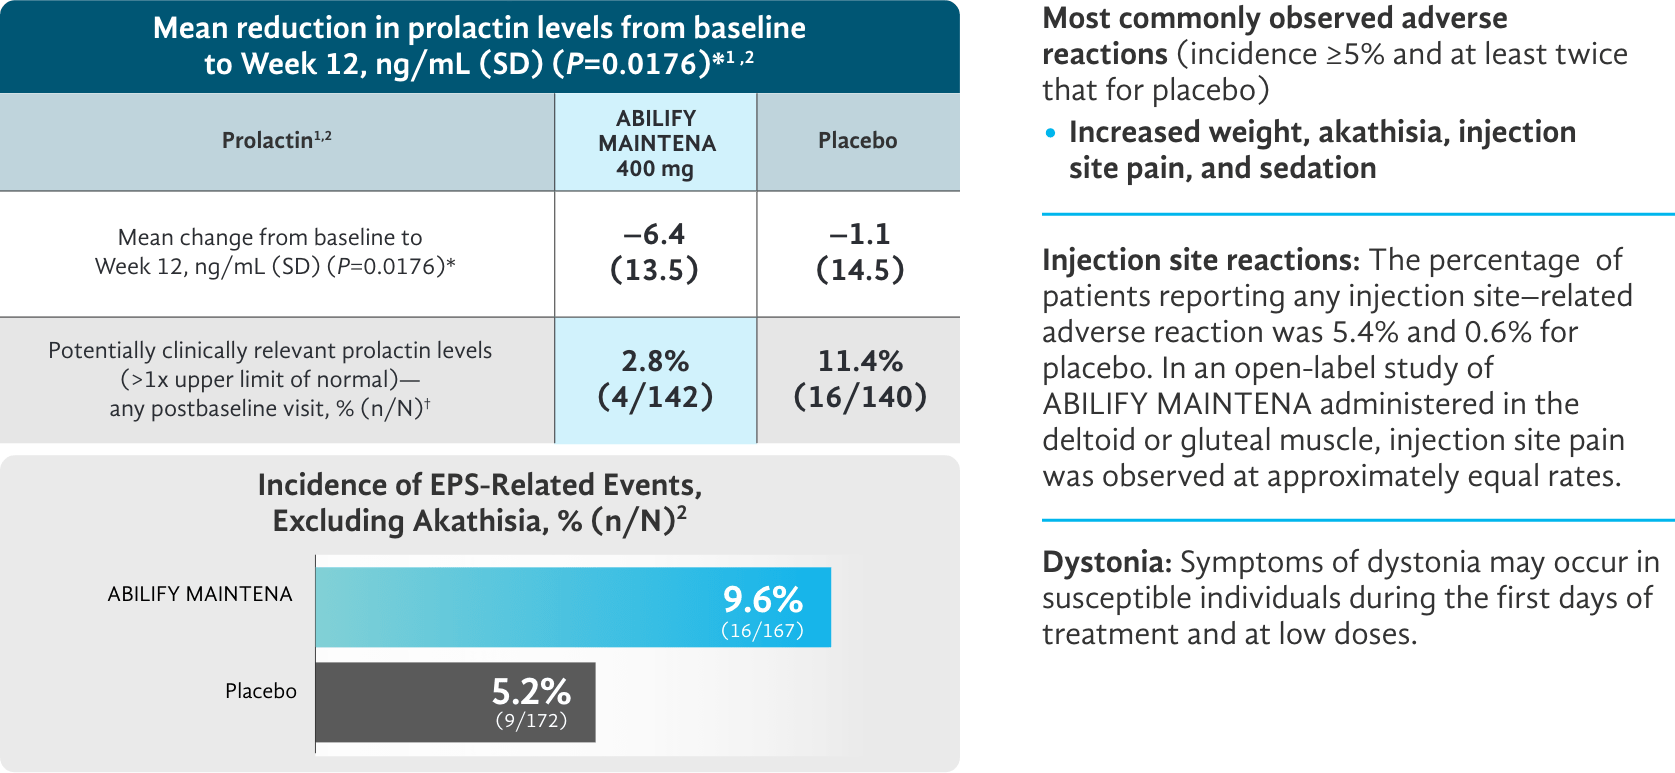
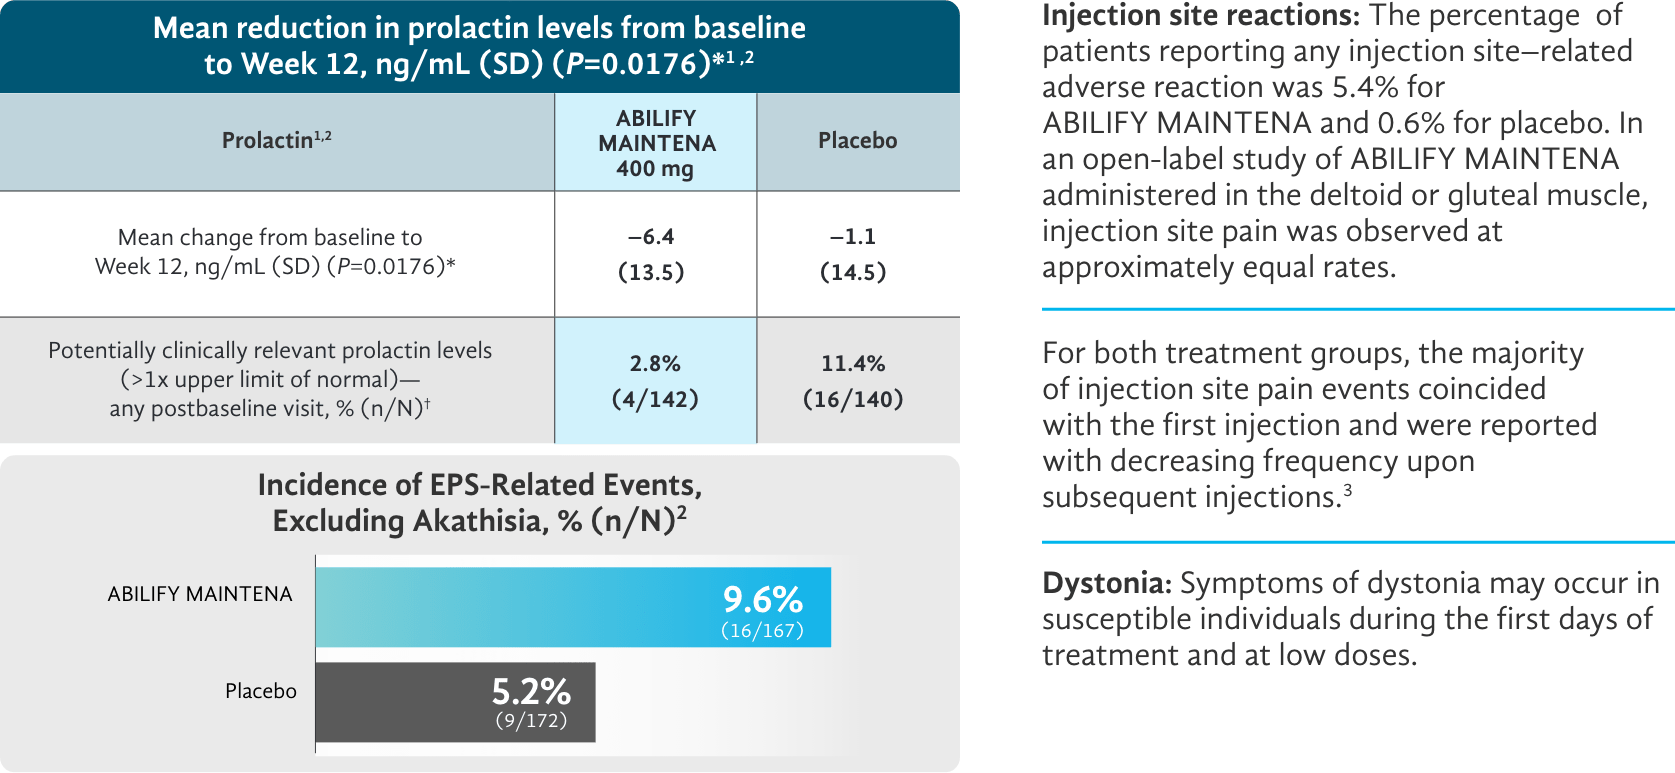
DF-34601 | R1 - A.3.3.2 Clinical Profile > Safety Data 2 update

diff --git a/projects/veeva-clm/src/Components/05-pages/A.3.3.2_Safety/A.3.3.2_Safety.stories.jsx b/projects/veeva-clm/src/Components/05-pages/A.3.3.2_Safety/A.3.3.2_Safety.stories.jsx
@@ -25,57 +25,19 @@ const classNames = require('classnames');
 
 const content = () => (
   <div className={`${blockName}_wrapper`}>
-    <Header custom='mb-0'>
+    <Header custom='mb-25'>
       Prolactin and extrapyramidal symptom-related
       <br />
       events in patients with schizophrenia receiving
       <br />
       ABILIFY MAINTENA<sup>®</sup> (aripiprazole)<sup>1,2</sup>
     </Header>
-    <List
-      content={{
-        columns: 'columns-1',
-        type: 'circle',
-        custom: 'mb-5',
-        data: [
-          {
-            text: (
-              <>
-                Prolactin levels and extrapyramidal symptoms<sup>1</sup>
-              </>
-            ),
-          },
-          {
-            text: (
-              <>
-                Prolactin levels and incidence of an extrapyramidal
-                symptom–related event among patients with schizophrenia
-                receiving ABILIFY MAINTENA vs those taking placebo<sup>1</sup>
-              </>
-            ),
-          },
-        ],
-      }}
-    />
     <img
       src={ProlactinTableImg}
       alt='prolactin table'
       className={classNames(`${blockName}-img`, 'mb-5')}
     />
-    <Link
-      to='A.3.2.2_Efficacy'
-      custom={classNames(
-        `${blockName}-btn`,
-        'button button__type-c',
-        ' button__type-c-large',
-      )}
-    >
-      <div className='button__text'>
-        ABILIFY ASIMTUFII<sup>®</sup> (aripiprazole) Safety
-      </div>
-    </Link>
     <Footer
-      custom='mb-5'
       footnotes={{
         data: [
           {
@@ -111,7 +73,10 @@ const content = () => (
             ),
           },
           {
-            text: '[Data on file. Otsuka].',
+            text: 'Data on file. ABIMAI-124.',
+          },
+          {
+            text: 'Data on file. ABIASI-025.',
           },
         ],
       }}
